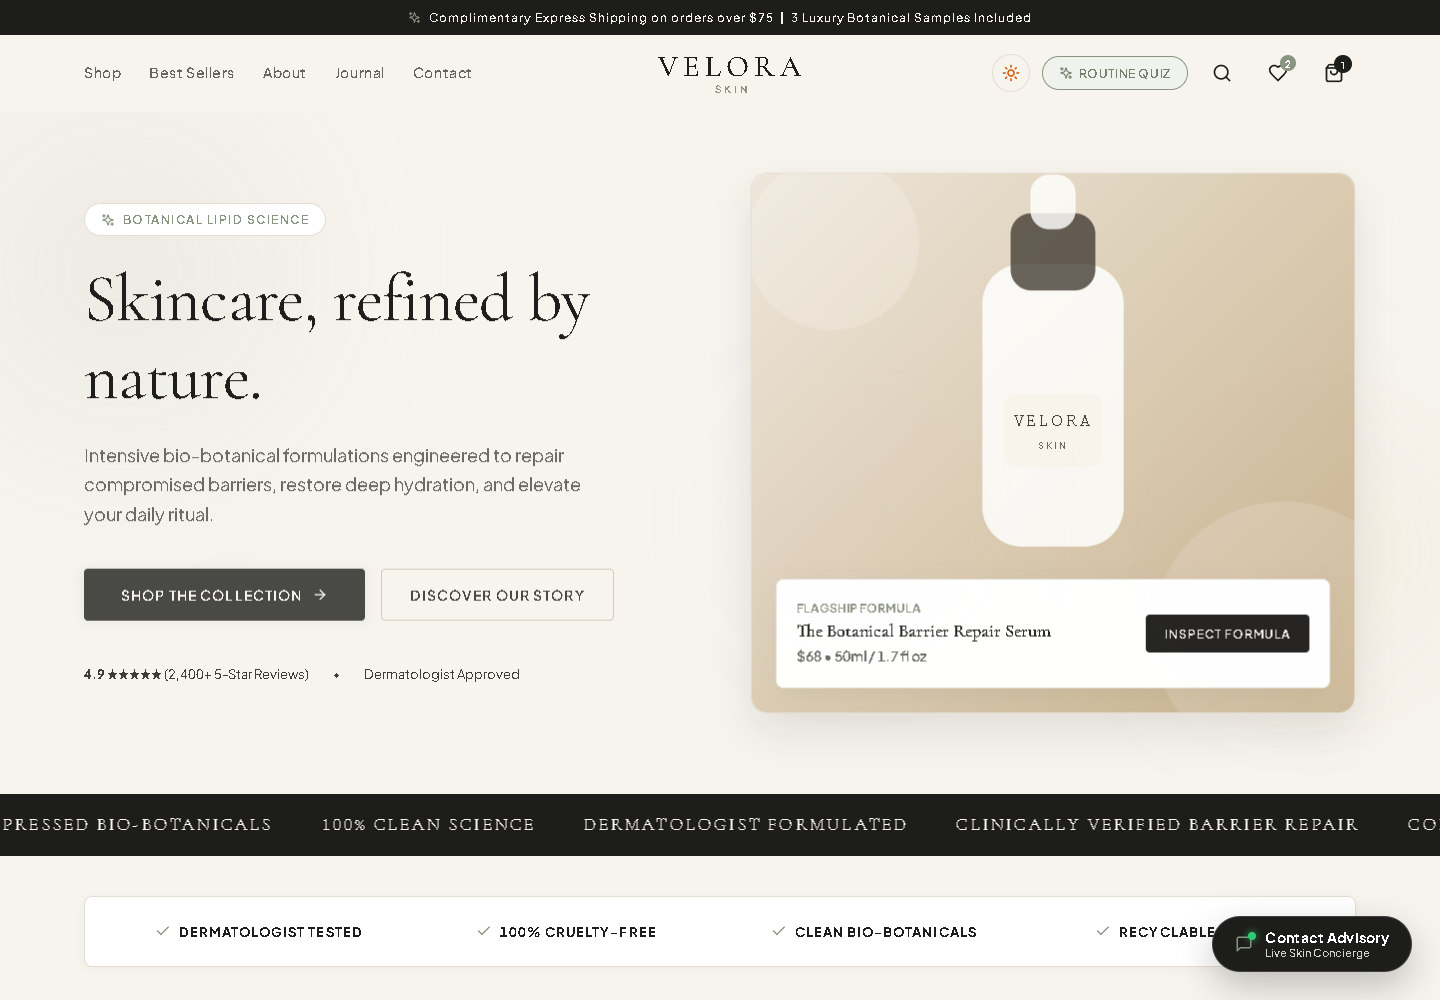
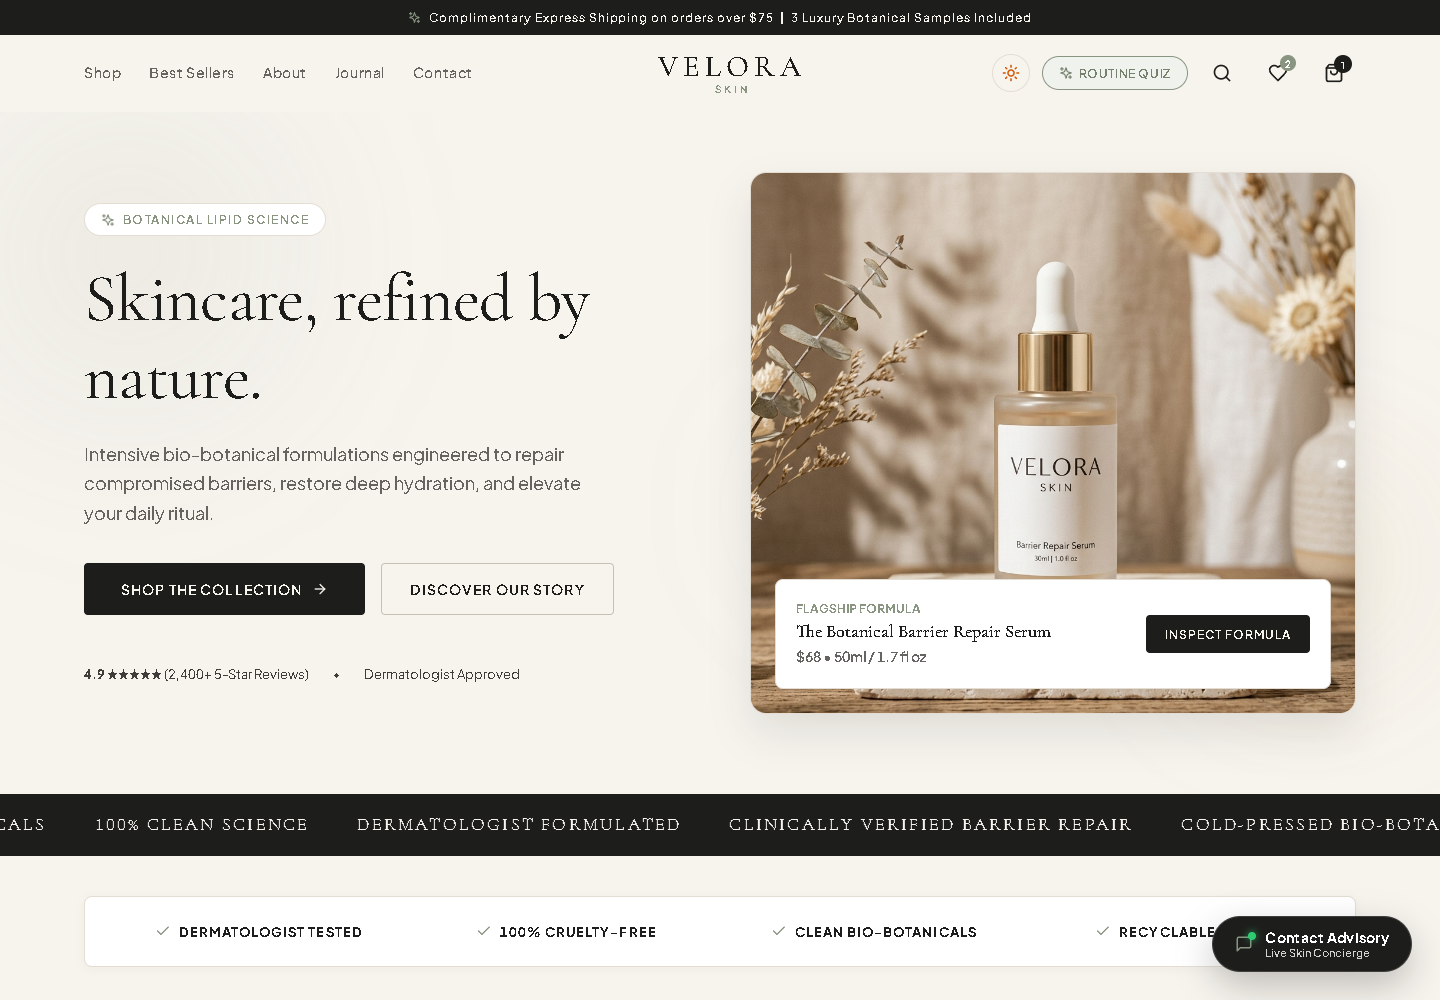
Restore original Velora website visuals (#4)

diff --git a/src/data/products.js b/src/data/products.js
@@ -1,5 +1,3 @@
-import { VISUALS } from './visuals.js';
-
 export const PRODUCTS = [
   {
     id: "barrier-repair-serum",
@@ -16,8 +14,8 @@ export const PRODUCTS = [
     tag: "Best Seller",
     badge: "Award Winner",
     purpose: "Intensive lipid restoration, redness reduction, and moisture lock",
-    image: VISUALS.serum,
-    hoverImage: VISUALS.collection,
+    image: "/images/hero_serum.png",
+    hoverImage: "/images/skincare_set.png",
     isHero: true,
     description: "An extraordinary lightweight, velvety serum formulated to repair and fortify compromised skin barriers. Packed with 10% Centella Asiatica, 5% Niacinamide, and pure lipid ceramides, this potent botanical elixir instantly calms redness, locks in 72 hours of deep hydration, and shields against environmental stressors.",
     benefits: [
@@ -55,8 +53,8 @@ export const PRODUCTS = [
     tag: "Award Winner",
     badge: "Clean Beauty",
     purpose: "Effortlessly melts away long-wear makeup, SPF, and urban pollutants",
-    image: VISUALS.balm,
-    hoverImage: VISUALS.serum,
+    image: "/images/cleansing_balm.png",
+    hoverImage: "/images/hero_serum.png",
     description: "A luxurious golden balm that transforms into a silky cleansing oil upon contact with skin, then rinses away as a milky emulsion. Infused with Sea Buckthorn and Elderberry oils to nourish skin while deeply purifying pores.",
     benefits: [
       "Dissolves waterproof makeup and water-resistant SPF without tugging",
@@ -85,8 +83,8 @@ export const PRODUCTS = [
     tag: "Clinical Grade",
     badge: "Barrier Cushion",
     purpose: "Restores elasticity and creates a protective cushion against moisture loss",
-    image: VISUALS.cream,
-    hoverImage: VISUALS.balm,
+    image: "/images/cream_jar.png",
+    hoverImage: "/images/cleansing_balm.png",
     description: "A rich yet weightless moisturizer containing 5 essential ceramides and copper peptides that fortify the lipid matrix, leaving skin velvety, plump, and thoroughly cushioned.",
     benefits: [
       "Protects against harsh climate conditions and indoor air conditioning",
@@ -114,8 +112,8 @@ export const PRODUCTS = [
     tag: "Best Seller",
     badge: "Overnight Renewal",
     purpose: "Refines fine lines, boosts collagen, and restores youthful radiance without irritation",
-    image: VISUALS.nightOil,
-    hoverImage: VISUALS.collection,
+    image: "/images/night_oil.png",
+    hoverImage: "/images/skincare_set.png",
     description: "A potent 100% botanical night treatment featuring 2% Bakuchiol—nature’s gentler alternative to retinol—blended with cold-pressed Rosehip and soothing Blue Tansy oils to smooth texture and boost firm elasticity overnight.",
     benefits: [
       "Targets fine lines, hyperpigmentation, and texture irregularities",
@@ -144,8 +142,8 @@ export const PRODUCTS = [
     tag: "Limited Edition",
     badge: "Save $35",
     purpose: "Complete transformation ritual for compromised, dry, or tired skin",
-    image: VISUALS.collection,
-    hoverImage: VISUALS.serum,
+    image: "/images/skincare_set.png",
+    hoverImage: "/images/hero_serum.png",
     description: "The ultimate VELORA Skin collection. Contains our Velvet Cleansing Balm (100ml), Hydra-Luminous Milk Toner (150ml), Botanical Barrier Repair Serum (50ml), and Ceramide Peptide Cream (50ml) in an exquisite keepsake box.",
     benefits: [
       "Complete AM & PM ritual engineered for optimal synergistic efficacy",
@@ -172,8 +170,8 @@ export const PRODUCTS = [
     tag: "Clean Science",
     badge: "Essence Prep",
     purpose: "Preps skin cells for serum absorption while imparting immediate dewy glow",
-    image: VISUALS.serum,
-    hoverImage: VISUALS.balm,
+    image: "/images/hero_serum.png",
+    hoverImage: "/images/cleansing_balm.png",
     description: "A soothing bi-phase milky essence featuring fermented rice water and polyglutamic acid. It rebalances post-cleanse pH and delivers weightless hydration deep into the stratum corneum.",
     benefits: [
       "Increases skin hydration absorption capacity by up to 300%",
@@ -201,8 +199,8 @@ export const PRODUCTS = [
     tag: "Daily Essential",
     badge: "Gentle Cleanse",
     purpose: "Gently purifies pores, excess sebum, and impurities while preserving barrier lipids",
-    image: VISUALS.balm,
-    hoverImage: VISUALS.serum,
+    image: "/images/cleansing_balm.png",
+    hoverImage: "/images/hero_serum.png",
     description: "A pillow-soft foam cleanser formulated with coconut-derived amino acids and green tea extract. Maintains optimal pH 5.5 balance to leave skin feeling clean, clear, and calm.",
     benefits: [
       "Formulated at optimal pH 5.5 to protect natural acid mantle",
@@ -230,8 +228,8 @@ export const PRODUCTS = [
     tag: "Dermatologist Tested",
     badge: "Brightening",
     purpose: "Visibly brightens dark circles, reduces morning puffiness, and smooths crow's feet",
-    image: VISUALS.cream,
-    hoverImage: VISUALS.nightOil,
+    image: "/images/cream_jar.png",
+    hoverImage: "/images/night_oil.png",
     description: "An illuminating eye treatment powered by green coffee bean caffeine and botanical niacinamide. Fast-absorbing cream formula depuffs tired eyes and creates a smooth canvas for makeup.",
     benefits: [
       "Constricts micro-vessels to diminish bluish dark circles",

diff --git a/src/data/journal.js b/src/data/journal.js
@@ -1,5 +1,3 @@
-import { VISUALS } from './visuals.js';
-
 export const JOURNAL_ARTICLES = [
   {
     id: "understanding-skin-barrier",
@@ -8,7 +6,7 @@ export const JOURNAL_ARTICLES = [
     readTime: "5 min read",
     date: "July 18, 2026",
     author: "Dr. Elena Vance, Lead Biochemist",
-    image: VISUALS.serum,
+    image: "/images/hero_serum.png",
     excerpt: "Your skin barrier is your body's first defense against environmental stressors. Learn how lipids, ceramides, and pH balance work together to keep skin resilient.",
     content: `
       The skin barrier—scientifically known as the stratum corneum—is frequently described as a brick wall. Skin cells (corneocytes) act as the bricks, while intercellular lipids (ceramides, cholesterol, and fatty acids) act as the mortar holding everything intact.
@@ -31,7 +29,7 @@ export const JOURNAL_ARTICLES = [
     readTime: "4 min read",
     date: "July 10, 2026",
     author: "Sophie Laurent, Senior Formulator",
-    image: VISUALS.nightOil,
+    image: "/images/night_oil.png",
     excerpt: "Discover why Bakuchiol—derived from the Psoralea Corylifolia plant—delivers all the collagen-boosting magic of vitamin A without the dryness or sun sensitivity.",
     content: `
       Retinol has long been crowned the gold standard for anti-aging. However, for those with reactive, sensitive, or eczema-prone skin, the retinoid journey often involves redness, peeling, and compromised barriers.
@@ -51,7 +49,7 @@ export const JOURNAL_ARTICLES = [
     readTime: "6 min read",
     date: "June 28, 2026",
     author: "Dr. Elena Vance, Lead Biochemist",
-    image: VISUALS.balm,
+    image: "/images/cleansing_balm.png",
     excerpt: "Like dissolves like. Uncover the dermatological science behind oil-based pre-cleansers and why melting away water-resistant SPF is essential for crystal clear skin.",
     content: `
       Modern sunscreens and long-wear makeup formulas are engineered to adhere to the skin. Standard water-based cleansers often leave behind an invisible layer of oil-soluble debris, leading to clogged pores and dull skin texture over time.

diff --git a/src/components/BeforeAfterSlider.jsx b/src/components/BeforeAfterSlider.jsx
@@ -1,6 +1,5 @@
 import React, { useState, useRef, useEffect } from 'react';
 import { SlidersHorizontal } from 'lucide-react';
-import { VISUALS } from '../data/visuals';
 
 export const BeforeAfterSlider = () => {
   const [sliderPos, setSliderPos] = useState(50);
@@ -56,8 +55,8 @@ export const BeforeAfterSlider = () => {
       >
         {/* Day 14: Restored Skin Image (Base Background) */}
         <img
-          src={VISUALS.restored}
-          alt="Abstract restored-state product visual"
+          src="/images/skin_after.png"
+          alt="Day 14 Restored Glass Skin Texture"
           style={{
             position: 'absolute',
             top: 0,
@@ -82,8 +81,8 @@ export const BeforeAfterSlider = () => {
           }}
         >
           <img
-            src={VISUALS.baseline}
-            alt="Abstract baseline-state product visual"
+            src="/images/skin_before.png"
+            alt="Day 0 Compromised Sensitive Flushed Skin Texture"
             style={{
               position: 'absolute',
               top: 0,

diff --git a/src/views/ProductDetailView.jsx b/src/views/ProductDetailView.jsx
@@ -1,6 +1,5 @@
 import React, { useState, useEffect } from 'react';
 import { useShop } from '../context/ShopContext';
-import { VISUALS } from '../data/visuals';
 import { 
   Star, 
   Heart, 
@@ -194,8 +193,8 @@ export const ProductDetailView = () => {
   const reviewGalleryPhotos = [
     { url: product.image, caption: 'Velvety Absorption & Fast Melting Action', tag: 'Formula Shot' },
     { url: product.hoverImage || product.image, caption: '14-Day Barrier Recovery Results', tag: 'Clinical Panel' },
-    { url: VISUALS.collection, caption: 'Synergistic Daily Ritual Pairings', tag: 'Routine Visual' },
-    { url: VISUALS.serum, caption: 'Dosage Precision Bottle Study', tag: 'Product Visual' }
+    { url: '/images/skincare_set.png', caption: 'Synergistic Daily Ritual Pairings', tag: 'Routine Shot' },
+    { url: '/images/hero_serum.png', caption: 'Dosage Precision Amber Glass Vial', tag: 'Devotee Photo' }
   ];
 
   return (

diff --git a/src/views/HomeView.jsx b/src/views/HomeView.jsx
@@ -13,7 +13,6 @@ import {
   ThumbsUp 
 } from 'lucide-react';
 import { JOURNAL_ARTICLES } from '../data/journal';
-import { VISUALS } from '../data/visuals';
 import { BeforeAfterSlider } from '../components/BeforeAfterSlider';
 import { BespokeBundleBuilder } from '../components/BespokeBundleBuilder';
 import { SourcingRegistry } from '../components/SourcingRegistry';
@@ -206,8 +205,8 @@ export const HomeView = () => {
                 }}
               >
                 <img
-                    src={VISUALS.serum}
-                    alt="Code-generated Velora barrier-serum visual"
+                  src="/images/hero_serum.png"
+                  alt="VELORA Botanical Barrier Repair Serum"
                   style={{ width: '100%', height: '540px', objectFit: 'cover' }}
                 />
 

diff --git a/src/views/AboutView.jsx b/src/views/AboutView.jsx
@@ -1,7 +1,6 @@
 import React from 'react';
 import { useShop } from '../context/ShopContext';
 import { ShieldCheck, Leaf, Recycle } from 'lucide-react';
-import { VISUALS } from '../data/visuals';
 
 export const AboutView = () => {
   const { navigateToView } = useShop();
@@ -34,8 +33,8 @@ export const AboutView = () => {
         >
           <div style={{ borderRadius: 'var(--radius-lg)', overflow: 'hidden', boxShadow: 'var(--shadow-md)' }}>
             <img
-              src={VISUALS.nightOil}
-              alt="Abstract Velora night-oil composition"
+              src="/images/night_oil.png"
+              alt="Dr. Elena Vance in VELORA Laboratory"
               style={{ width: '100%', height: '520px', objectFit: 'cover' }}
             />
           </div>

diff --git a/ASSETS.md b/ASSETS.md
@@ -1,5 +1,5 @@
 # Asset notes
 
-Product presentation graphics are generated in code by `src/data/visuals.js`; the repository does not include standalone product or lifestyle photographs.
+The product and lifestyle imagery in `public/images` is included only as part of this fictional portfolio demonstration. Its inclusion does not grant redistribution or commercial-use rights.
 
 Interface icons are provided by [Lucide](https://lucide.dev/) through the `lucide-react` package and remain subject to the Lucide license.
